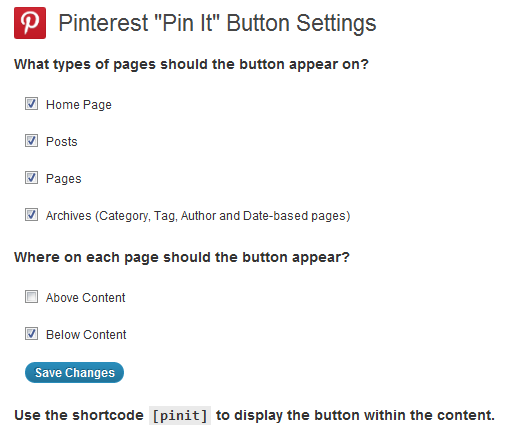
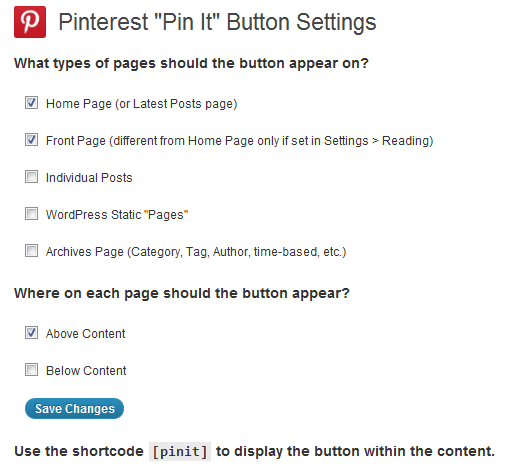
Added option to display on front page (sometimes different than home page)
git-svn-id: https://plugins.svn.wordpress.org/pinterest-pin-it-button@497491 b8457f37-d9ea-0310-8a92-e5e31aec5664

diff --git a/trunk/pinterest-pin-it-button.php b/trunk/pinterest-pin-it-button.php
@@ -3,7 +3,7 @@
   Plugin Name: Pinterest "Pin It" Button
   Plugin URI: http://pinterestplugin.com/
   Description: Add a Pinterest "Pin It" button to your posts and images.
-  Version: 1.0.0
+  Version: 1.0.1
   Author: Phil Derksen
   Author URI: http://pinterestplugin.com/
 */
@@ -35,7 +35,7 @@ function pib_install() {
 	//Setup default settings
 	$pib_options = array(
 		'display_home_page' => 0,
-		//TODO? 'display_front_page' => 0,
+		'display_front_page' => 0,
 		'display_posts' => 1,
 		'display_pages' => 1,
 		//TODO? 'display_categories' => 0,
@@ -98,6 +98,10 @@ function pib_render_btn( $content )
     if ( is_home() && ( $pib_options['display_home_page'] ) ) {
         $render_btn = true;
     }
+	
+	if ( is_front_page() && ( $pib_options['display_front_page'] ) ) {
+        $render_btn = true;
+    }
     
     if ( is_single() && ( $pib_options['display_posts'] ) ) {
         $render_btn = true;
@@ -141,6 +145,10 @@ function pib_render_btn_excerpt( $content )
     
     //Determine if displayed on current page
     if ( is_home() && ( $pib_options['display_home_page'] ) ) {
+        $render_btn = true;
+    }
+
+	if ( is_front_page() && ( $pib_options['display_front_page'] ) ) {
         $render_btn = true;
     }
     
@@ -227,26 +235,37 @@ function pib_create_settings_page() {
                 <table class="form-table">
                     <tr valign="top">
                         <td>
-                            <input id="display_home_page" name="pib_options[display_home_page]" type="checkbox" <?php if ( $pib_options['display_home_page'] ) echo 'checked="checked"'; ?> />
-                            <label for="display_home_page">Home Page</label>
+                            <input id="display_home_page" name="pib_options[display_home_page]" type="checkbox" 
+								<?php if ( $pib_options['display_home_page'] ) echo 'checked="checked"'; ?> />
+                            <label for="display_home_page">Home Page (or Latest Posts page)</label>
                         </td>
                     </tr>
                     <tr valign="top">
                         <td>
-                            <input id="display_posts" name="pib_options[display_posts]" type="checkbox" <?php if ( $pib_options['display_posts'] ) echo 'checked="checked"'; ?> />
-                            <label for="display_posts">Posts</label>
+                            <input id="display_front_page" name="pib_options[display_front_page]" type="checkbox" 
+								<?php if ( $pib_options['display_front_page'] ) echo 'checked="checked"'; ?> />
+                            <label for="display_front_page">Front Page (different from Home Page only if set in Settings > Reading)</label>
+                        </td>
+                    </tr>					
+                    <tr valign="top">
+                        <td>
+                            <input id="display_posts" name="pib_options[display_posts]" type="checkbox" 
+								<?php if ( $pib_options['display_posts'] ) echo 'checked="checked"'; ?> />
+                            <label for="display_posts">Individual Posts</label>
                         </td>
                     </tr>
                     <tr valign="top">
                         <td>
-                            <input id="display_pages" name="pib_options[display_pages]" type="checkbox" <?php if ( $pib_options['display_pages'] ) echo 'checked="checked"'; ?> />
-                            <label for="display_pages">Pages</label>
+                            <input id="display_pages" name="pib_options[display_pages]" type="checkbox" 
+								<?php if ( $pib_options['display_pages'] ) echo 'checked="checked"'; ?> />
+                            <label for="display_pages">WordPress Static "Pages"</label>
                         </td>
                     </tr>
                     <tr valign="top">
                         <td>
-                            <input id="display_archives" name="pib_options[display_archives]" type="checkbox" <?php if ( $pib_options['display_archives'] ) echo 'checked="checked"'; ?> />
-                            <label for="display_archives">Archives (Category, Tag, Author and Date-based pages)</label>
+                            <input id="display_archives" name="pib_options[display_archives]" type="checkbox" 
+								<?php if ( $pib_options['display_archives'] ) echo 'checked="checked"'; ?> />
+                            <label for="display_archives">Archives Page (Category, Tag, Author, time-based, etc.)</label>
                         </td>
                     </tr>
                 </table>
